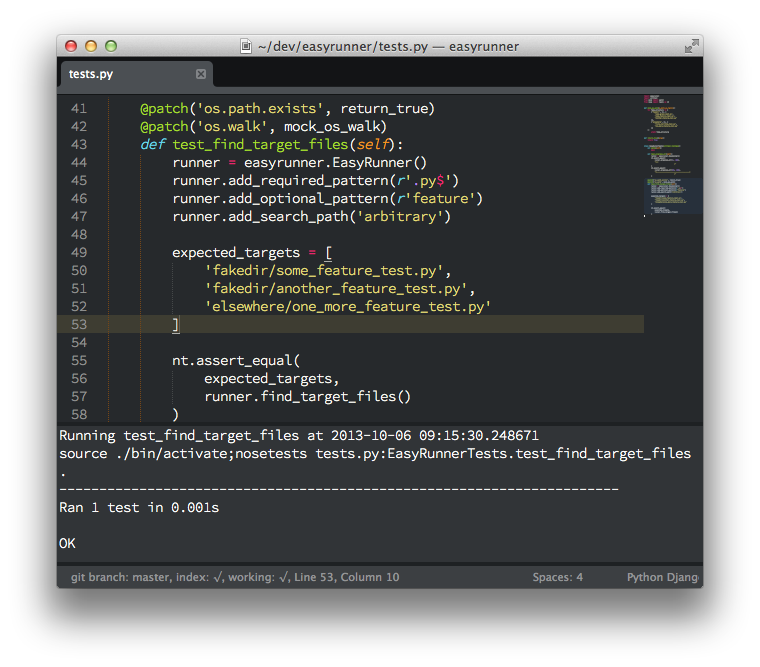
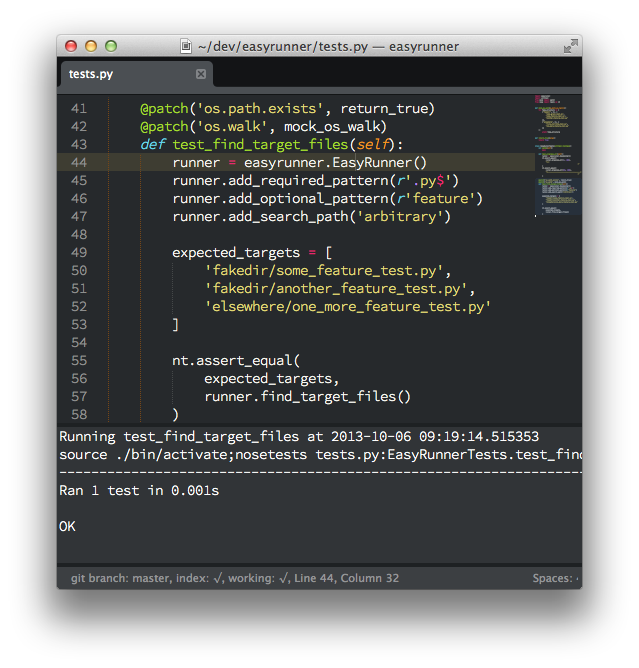
Cleaned up test output

diff --git a/noserunner.py b/noserunner.py
@@ -58,10 +58,12 @@ class RunnyNoseCommand(sublime_plugin.TextCommand):
         p = subprocess.Popen(
             cmd, shell=True, stdout=subprocess.PIPE, stderr=subprocess.PIPE)
         out, err = p.communicate()
+        result = err.decode('utf-8') + out.decode('utf-8')
         panel.insert(
             edit,
             panel.size(),
-            '\n{}\n{}'.format(err.decode('utf-8'), out.decode('utf-8')))
+            result
+        )
 
     def get_class(self):
         class_search = re.search(r'class (\w+)\(', self.view_contents)
